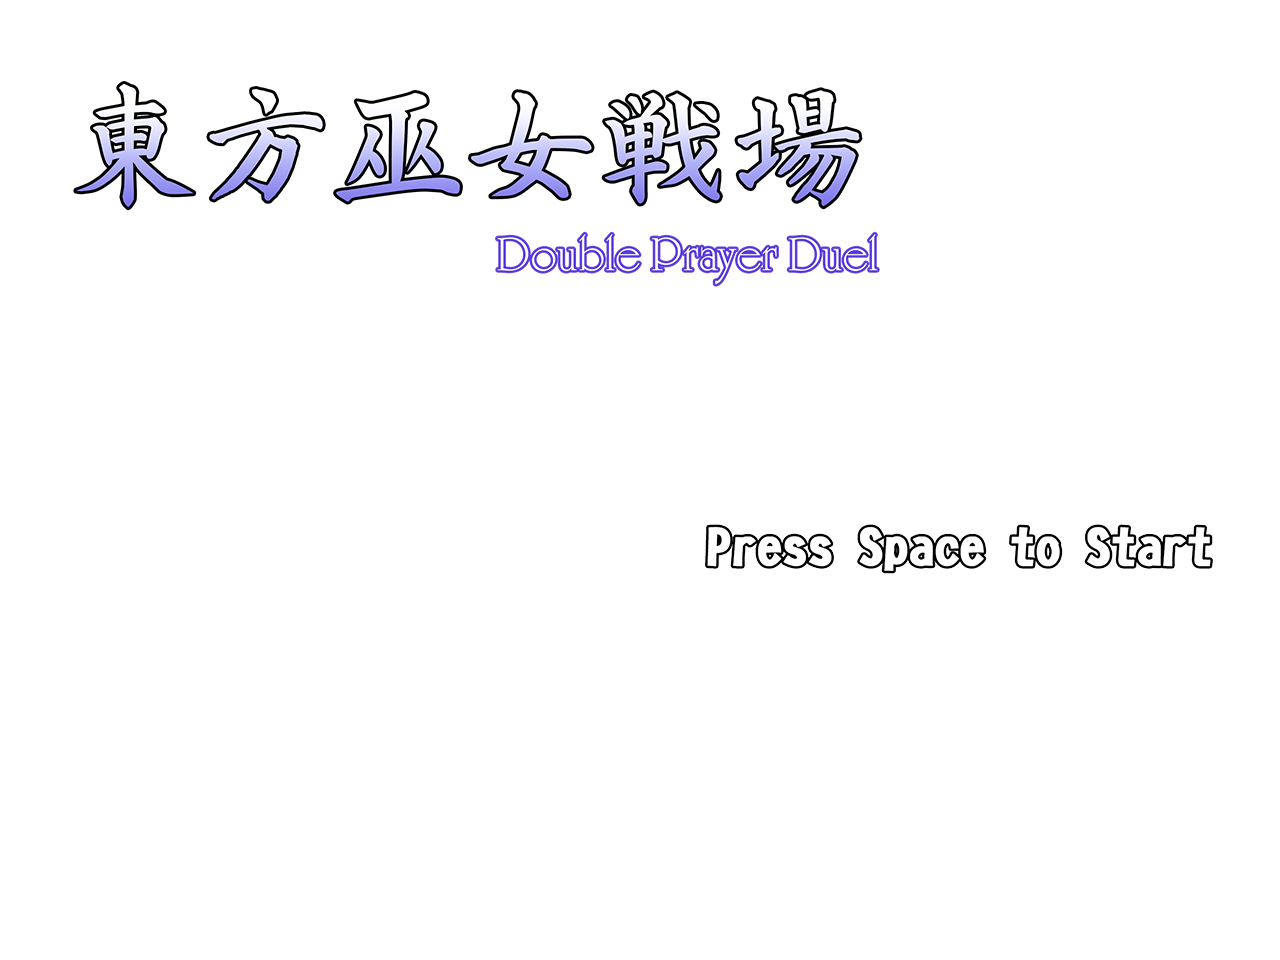
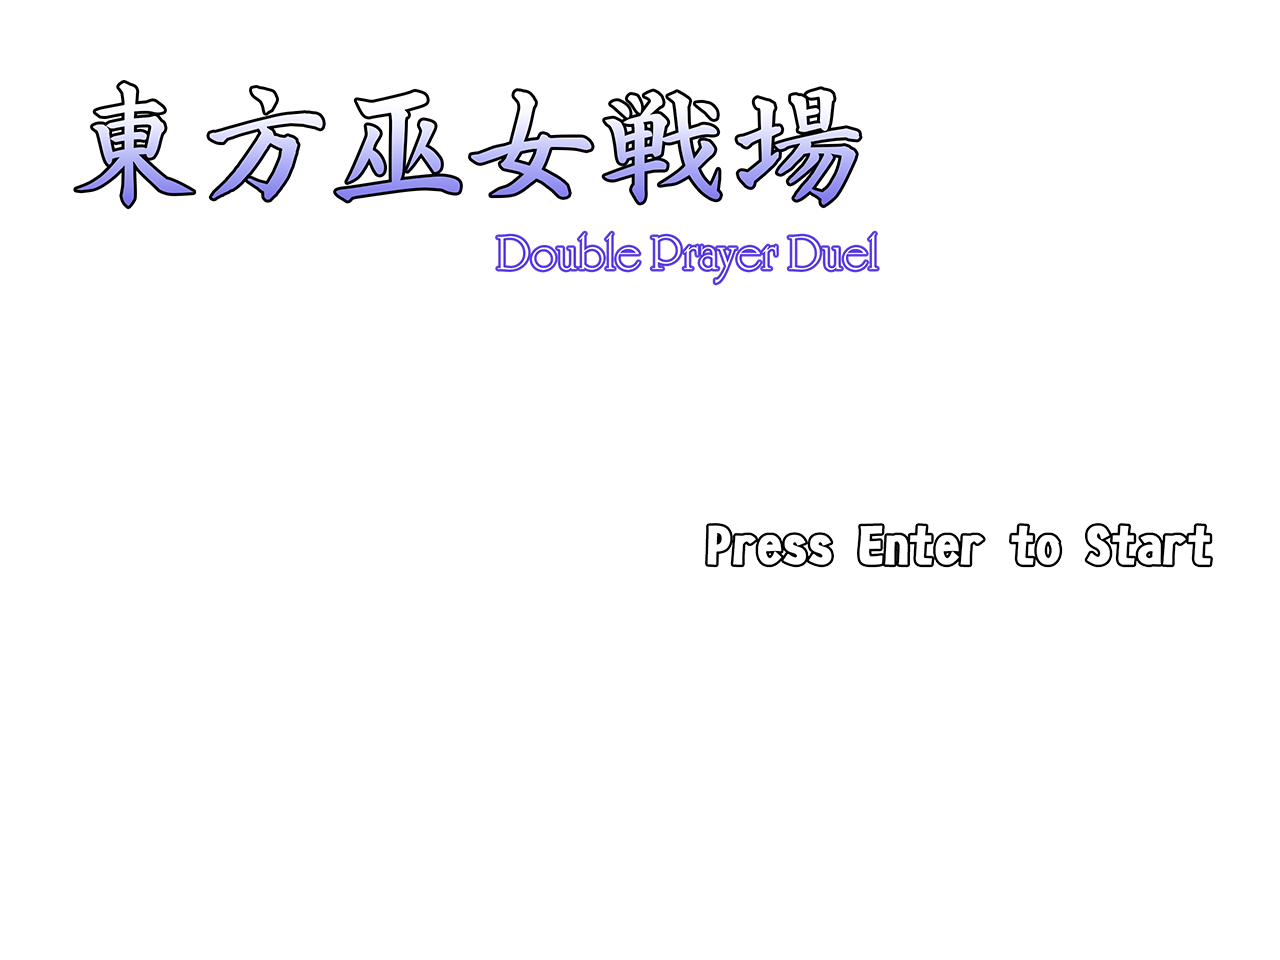
Added support for z/enter for main menu and UI

Changed region(s): [[0.25, 0.0938, 0.6875, 0.3125], [0.5625, 0.5312, 0.9688, 0.5938], [0.0625, 0.0938, 0.25, 0.2188]]

diff --git a/src/scene/Scene.cpp b/src/scene/Scene.cpp
@@ -39,8 +39,7 @@ void Scene::initMainMenu(int windowWidth, int windowHeight) {
 	UIUtils::createFadeInMenuLayer(world, width, height, "../asset/menu/main-menu-characters.png", 1.25f, 0.3f);
 
 	// Menu text.
-	UIUtils::createFadeInMenuLayer(world, width, height, "../asset/menu/main-menu-title.png", 1.5f, 1.7f);
-	UIUtils::createFadeInMenuLayer(world, width, height, "../asset/menu/main-menu-start.png", 1.5f, 1.7f);
+	UIUtils::createFadeInMenuLayer(world, width, height, "../asset/menu/main-menu-text.png", 1.5f, 1.7f);
 
 	// FPS counter.
 	auto& fpsCounter = UIUtils::createLabel(world, windowWidth - 170, windowHeight - 40,
@@ -659,7 +658,7 @@ void Scene::createBossHealthBar(int windowWidth, int windowHeight) {
 	SDL_Color colour {206, 197, 237, 255};
 	const char* font = "tiranti";
 	float labelY = barY + barPadding;
-	auto& bossNameLabel = UIUtils::createLabel(world, barX, labelY, colour, font, "No Boss!", "BossLabel", LabelType::Static);
+	auto& bossNameLabel = UIUtils::createLabel(world, barX, labelY, colour, font, " ", "BossLabel", LabelType::Static);
 	auto& label = bossNameLabel.getComponent<Label>();
 	label.outlineColor = {29, 25, 55, 200};
 	label.visible = false;

diff --git a/src/utils/UIUtils.cpp b/src/utils/UIUtils.cpp
@@ -40,7 +40,7 @@ Entity& UIUtils::createFadeInMenuLayer(World& world, float width, float height, 
 	SDL_Texture* text = TextureManager::load(texturePath);
 	SDL_FRect src {0, 0, static_cast<float>(text->w), static_cast<float>(text->h)};
 	SDL_FRect dst {0, 0, width, height};
-	entity.addComponent<Sprite>(text, src, dst, RenderLayer::UI);
+	entity.addComponent<Sprite>(text, src, dst, RenderLayer::Background);
 
 	auto& charFade = entity.addComponent<Fade>(fadeDuration, fadeDelay);
 	charFade.isFading = true;
@@ -48,6 +48,7 @@ Entity& UIUtils::createFadeInMenuLayer(World& world, float width, float height, 
 	return entity;
 }
 
+// Note that this defaults to setting the buttons to invisible.
 Entity& UIUtils::createSelectableButton(World& world, const char* font, SDL_Color selectedColour, SDL_Color unselectedColour,
 	const char* text, const char* cacheKey, const std::function<void()>& onPressed) {
 

diff --git a/src/ecs/system/SelectableUISystem.cpp b/src/ecs/system/SelectableUISystem.cpp
@@ -23,6 +23,7 @@ void SelectableUISystem::update(const std::vector<std::unique_ptr<Entity>> &enti
     // UI interaction with keyboard via events.
     if (currentlySelectedUI && event.type == SDL_EVENT_KEY_DOWN) {
         switch (event.key.key) {
+            case SDLK_Z:
             case SDLK_RETURN:
                 world.getEventManager().emit(UIInteractionEvent{currentlySelectedEntity, UIInteractionState::Pressed});
                 break;

diff --git a/src/ecs/system/MainMenuSystem.cpp b/src/ecs/system/MainMenuSystem.cpp
@@ -6,6 +6,8 @@
 void MainMenuSystem::update(const SDL_Event& event) {
     if (event.type == SDL_EVENT_KEY_DOWN) {
         switch (event.key.key) {
+            case SDLK_Z:
+            case SDLK_RETURN:
             case SDLK_SPACE:
                 AudioManager::playSfx("ok");
                 Game::onSceneChangeRequest("level1");
